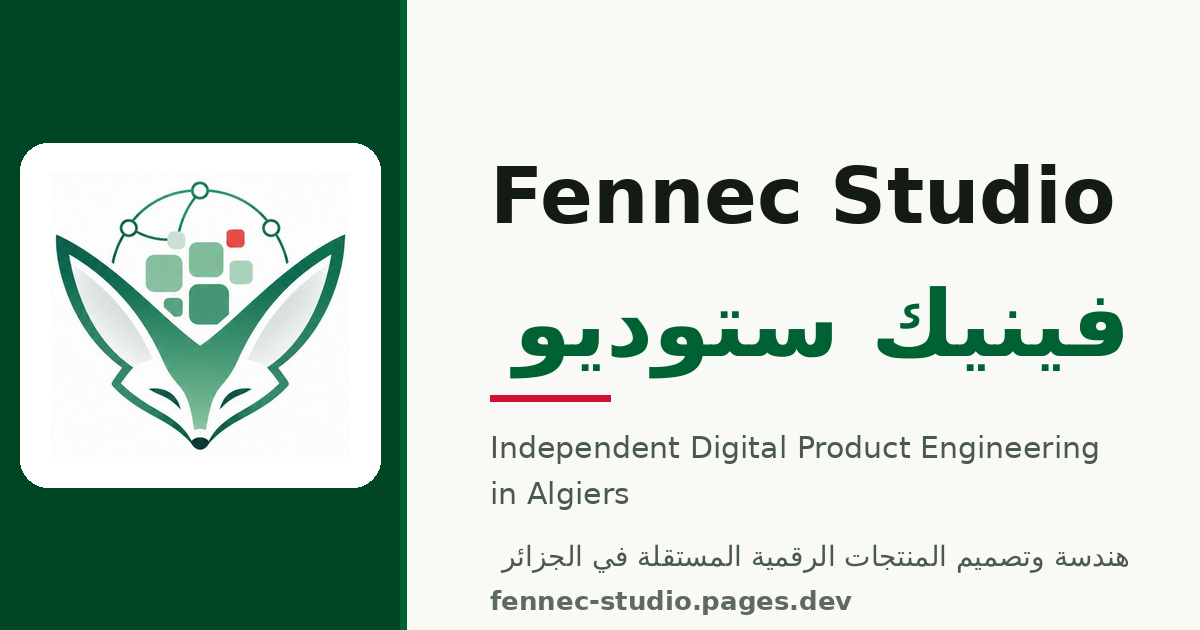
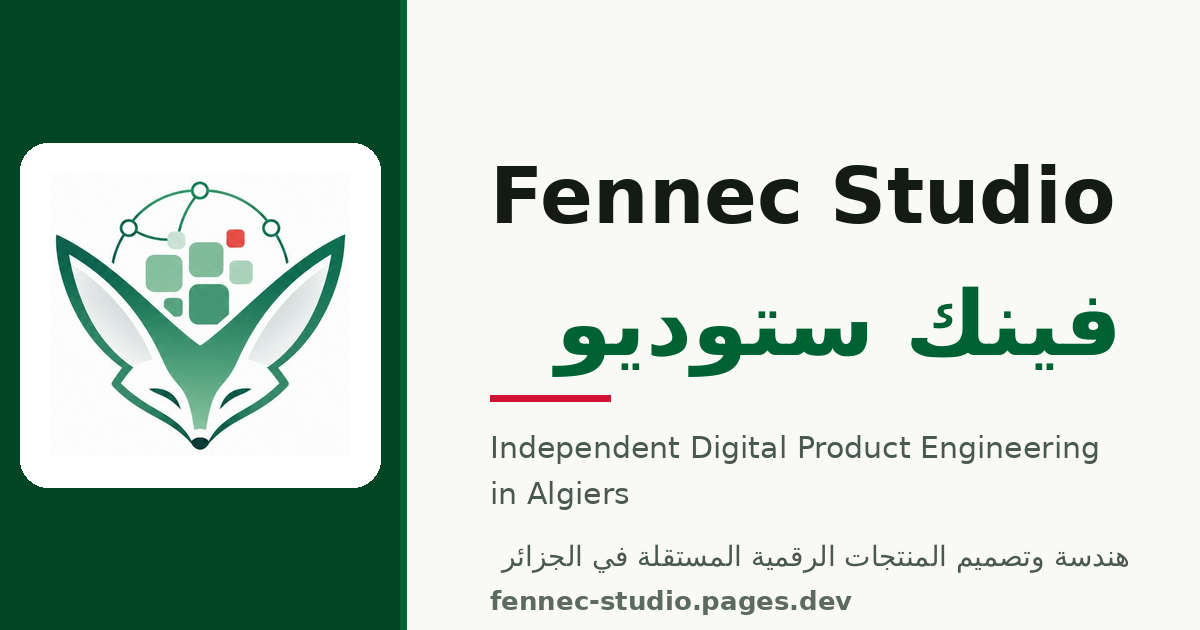
Correct Arabic brand name spelling (#16)
Claude-Session: https://claude.ai/code/session_01HTe1X1kTvFn5QFRbiiEMDU

Changed region(s): [[0.4008, 0.4524, 0.9558, 0.6032]]

diff --git a/app/seo/site-metadata.ts b/app/seo/site-metadata.ts
@@ -8,7 +8,7 @@ export const siteImage = {
   url: `${SITE_URL}/og-image.png`,
   width: 1200,
   height: 630,
-  alt: "Fennec Studio · فينيك ستوديو",
+  alt: "Fennec Studio · فينك ستوديو",
 };
 
 const ogLocale: Record<SiteLocale, string> = { ar: "ar_DZ", en: "en_US" };
